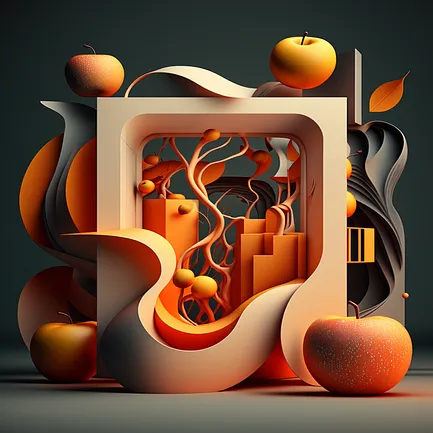
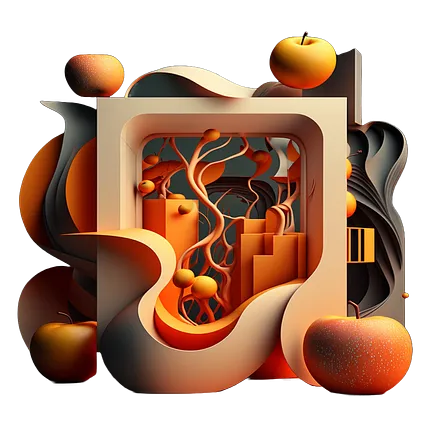
added new hero and  sub images

diff --git a/src/app/components/InformationCard.tsx b/src/app/components/InformationCard.tsx
@@ -3,6 +3,7 @@ import LinkIcon from '../icons/LinkIcon'
 import Link from 'next/link'
 import GitHubIcon from '../icons/GitHubIcon'
 import getData from '@/lib/getData'
+import getPoints from '@/lib/getPoints'
 
 interface Props {
 	dataType: string
@@ -11,8 +12,9 @@ interface Props {
 
 export default async function InformationCard({ dataType, dataId }: Props) {
 	const data = await getData(dataType, dataId)
+	const points = await getPoints(dataId)
 
-	if (data === null) {
+	if (data === null || points === null) {
 		return <></>
 	}
 
@@ -61,31 +63,14 @@ export default async function InformationCard({ dataType, dataId }: Props) {
 
 			<section className='mt-20'>
 				<ul className='ml-4 list-disc'>
-					<li className='mt-10'>
-						Lorem ipsum dolor sit amet consectetur adipisicing elit.
-						Consequuntur ex debitis reiciendis fuga temporibus dolores
-						recusandae, nihil itaque rerum officia.
-					</li>
-					<li className='mt-10'>
-						Lorem ipsum dolor sit amet consectetur adipisicing elit.
-						Consequuntur ex debitis reiciendis fuga temporibus dolores
-						recusandae, nihil itaque rerum officia.
-					</li>
-					<li className='mt-10'>
-						Lorem ipsum dolor sit amet consectetur adipisicing elit.
-						Consequuntur ex debitis reiciendis fuga temporibus dolores
-						recusandae, nihil itaque rerum officia.
-					</li>
-					<li className='mt-10'>
-						Lorem ipsum dolor sit amet consectetur adipisicing elit.
-						Consequuntur ex debitis reiciendis fuga temporibus dolores
-						recusandae, nihil itaque rerum officia.
-					</li>
-					<li className='mt-10'>
-						Lorem ipsum dolor sit amet consectetur adipisicing elit.
-						Consequuntur ex debitis reiciendis fuga temporibus dolores
-						recusandae, nihil itaque rerum officia.
-					</li>
+					{points.map((point) => (
+						<li
+							key={point}
+							className='mt-10'
+						>
+							{point}
+						</li>
+					))}
 				</ul>
 			</section>
 		</div>

diff --git a/src/app/experiences/page.tsx b/src/app/experiences/page.tsx
@@ -6,6 +6,7 @@ import ProfessionalGrid from '@/components/ProfessionalGrid'
 import List from '../components/List'
 import SocilaLList from '../components/SocialList'
 import HeroImage from '../components/HeroImage'
+import SubImage from '../components/SubImage'
 
 export const metadata: Metadata = {
 	title: 'Experience',
@@ -16,8 +17,8 @@ export default function Experience(): JSX.Element {
 		<>
 			<main className='md:mt-42 mt-36'>
 				<Container>
-					<div className='grid grid-cols-1 gap-y-16 lg:grid-cols-2 lg:grid-rows-[auto_1fr] lg:gap-y-12'>
-						<HeroImage image={'/experiences.webp'} />
+					<div className='grid grid-cols-1 gap-x-16 gap-y-16 lg:grid-cols-2 lg:grid-rows-[auto_1fr] lg:gap-y-16'>
+						<HeroImage image={'/experiences2.png'} />
 
 						<section className='flex flex-col justify-center lg:row-span-2'>
 							{/* @ts-expect-error Async Server Component Workaround */}
@@ -42,11 +43,21 @@ export default function Experience(): JSX.Element {
 						{/* @ts-expect-error Async Server Component Workaround */}
 						<ProfessionalGrid />
 						<DownloadResumeBtn />
-						<div className='grid grid-cols-1 gap-x-16 lg:grid-cols-2'>
+
+						<div className='mt-24 grid grid-cols-1 items-center justify-center gap-x-16 gap-y-16 md:grid-cols-2'>
+							<div className='flex justify-center'>
+								<SubImage image={'/education2.png'} />
+							</div>
+
 							{/* @ts-expect-error Async Server Component Workaround */}
 							<List listType={'education'} />
+						</div>
 
-							<div className='flex flex-col'>
+						<div className='mt-24 grid grid-cols-1 items-center justify-center gap-x-16 gap-y-16 md:grid-cols-2'>
+							<div className='flex justify-center'>
+								<SubImage image={'/certifications2.png'} />
+							</div>
+							<div className='md:order-first'>
 								{/* @ts-expect-error Async Server Component Workaround */}
 								<List listType={'certifications'} />
 							</div>

diff --git a/src/app/articles/[articleId]/page.tsx b/src/app/articles/[articleId]/page.tsx
@@ -6,6 +6,7 @@ import Container from '@/components/Container'
 import HeadingContainer from '@/components/HeadingContainer'
 import getList from '@/lib/getList'
 import getData from '@/lib/getData'
+import HeroImage from '@/app/components/HeroImage'
 
 type Params = {
 	params: {
@@ -56,15 +57,18 @@ export default async function Article({ params }: Params) {
 	const content = (
 		<main className=' md:mt-42 mx-auto mt-36 max-w-xl px-6 md:max-w-7xl'>
 			<Container>
-				<header className='mb-10 max-w-2xl'>
-					{/* @ts-expect-error Async Server Component Workaround */}
-					<HeadingContainer
-						headingText={null}
-						paragraphText={null}
-						dataType={'articles'}
-						dataId={articleId}
-					/>
-				</header>
+				<div className='grid grid-cols-1 gap-x-16 gap-y-16 lg:grid-cols-2 lg:grid-rows-[auto_1fr] lg:gap-y-12'>
+					<HeroImage image={data.image} />
+					<section className='flex items-center lg:row-span-2'>
+						{/* @ts-expect-error Async Server Component Workaround */}
+						<HeadingContainer
+							headingText={null}
+							paragraphText={null}
+							dataType={'articles'}
+							dataId={articleId}
+						/>
+					</section>
+				</div>
 				<article className=' article prose prose-xl dark:prose-invert'>
 					{/* @ts-expect-error Async Server Component Workaround */}
 					<MDXRemote

diff --git a/src/app/components/List.tsx b/src/app/components/List.tsx
@@ -24,7 +24,7 @@ export default async function List({ listType }: Props) {
 	}
 
 	const content = (
-		<div className='mt-16 rounded-2xl border border-p1 p-4 pt-6 shadow-md dark:border-p7/40 lg:p-6'>
+		<div className='rounded-2xl border border-p1 p-4 pt-6 shadow-md dark:border-p7/40 lg:p-6'>
 			<h2 className='flex text-sm font-semibold text-p8 dark:text-p1'>
 				{listType === 'professional' ? (
 					<WorkIcon />
@@ -48,7 +48,7 @@ export default async function List({ listType }: Props) {
 				</span>
 			</h2>
 
-			<ol className='mt-10 space-y-10'>
+			<ol className='space-y-10'>
 				{list.map((itemId: string) => (
 					/* @ts-expect-error Async Server Component Workaround */
 					<ListItem

diff --git a/src/app/articles/page.tsx b/src/app/articles/page.tsx
@@ -18,9 +18,8 @@ export default async function Articles(): Promise<JSX.Element> {
 					className='grid grid-cols-1 gap-y-16 lg:grid-cols-2
 				lg:grid-rows-[auto_1fr] lg:gap-y-12'
 				>
-					<HeroImage image={'/articles.webp'} />
+					<HeroImage image={'/blog2.png'} />
 					<section className='flex items-center lg:row-span-2'>
-						{/* <header className='max-w-2xl'> */}
 						{/* @ts-expect-error Async Server Component Workaround */}
 						<HeadingContainer
 							headingText={
@@ -30,7 +29,6 @@ export default async function Articles(): Promise<JSX.Element> {
 							dataType={null}
 							dataId={null}
 						/>
-						{/* </header> */}
 					</section>
 				</div>
 			</Container>

diff --git a/src/app/components/SubImage.tsx b/src/app/components/SubImage.tsx
@@ -4,7 +4,7 @@ interface Props {
 	image: string
 }
 
-export default function HeroImage({ image }: Props) {
+export default function SubImage({ image }: Props) {
 	return (
 		<div
 			className='max-w-xs px-2.5 lg:max-w-none lg:pl-20'
@@ -14,11 +14,11 @@ export default function HeroImage({ image }: Props) {
 			<Image
 				src={image}
 				alt='A.M'
-				height={400}
-				width={360}
+				height={285}
+				width={240}
 				quality={100}
 				decoding='async'
-				className='rotate-3 rounded-2xl drop-shadow-xl'
+				className='aspect-sqaure rotate-3 rounded-2xl drop-shadow-xl'
 				priority
 			/>
 			{/* </div> */}

diff --git a/src/app/projects/page.tsx b/src/app/projects/page.tsx
@@ -14,7 +14,7 @@ export default function Projects(): JSX.Element {
 		<main className='md:mt-42 mt-36'>
 			<Container>
 				<div className='grid grid-cols-1 gap-y-16 lg:grid-cols-2 lg:grid-rows-[auto_1fr] lg:gap-y-12'>
-					<HeroImage image={'/projects.webp'} />
+					<HeroImage image={'/projects2.png'} />
 
 					<section className='flex flex-col justify-center lg:order-first lg:row-span-2'>
 						{/* @ts-expect-error Server Component */}

diff --git a/src/app/about/page.tsx b/src/app/about/page.tsx
@@ -14,7 +14,7 @@ export default function About(): JSX.Element {
 		<main className='md:mt-42 mt-36'>
 			<Container>
 				<div className='grid grid-cols-1 gap-y-16 lg:grid-cols-2 lg:grid-rows-[auto_1fr] lg:gap-y-12'>
-					<HeroImage image={'/ai-profile-desk.webp'} />
+					<HeroImage image={'/ai-profile-desk.png'} />
 
 					<section className='lg:order-first lg:row-span-2'>
 						{/* @ts-expect-error Async Server Component Workaround */}

diff --git a/lib/getPoints.ts b/lib/getPoints.ts
@@ -1,0 +1,16 @@
+import redis from '@/lib/redis'
+import logger from '@/util/logger'
+import { cache } from 'react'
+
+export default cache(async function getPoints(dataId: string) {
+	const log = logger()
+	let list = null
+
+	try {
+		list = await redis.lrange(`points:${dataId.toLowerCase()}`, 0, -1)
+	} catch (error) {
+		log.error(`Error fetching ${dataId} points: `, error)
+	}
+
+	return list
+})

diff --git a/src/app/components/ImageGrid.tsx b/src/app/components/ImageGrid.tsx
@@ -2,11 +2,11 @@ import Image from 'next/image'
 
 export default function ImageGrid() {
 	const images = [
-		'/chicago-day.webp',
-		'/boulder-night.webp',
-		'/ai-profile-outside.webp',
-		'/chicago-night.webp',
-		'/boulder-day.webp',
+		'/boulder-day.png',
+		'/boulder-night.png',
+		'/ai-profile-outside.png',
+		'/chicago-night.png',
+		'/chicago-day.png',
 	]
 
 	return (
